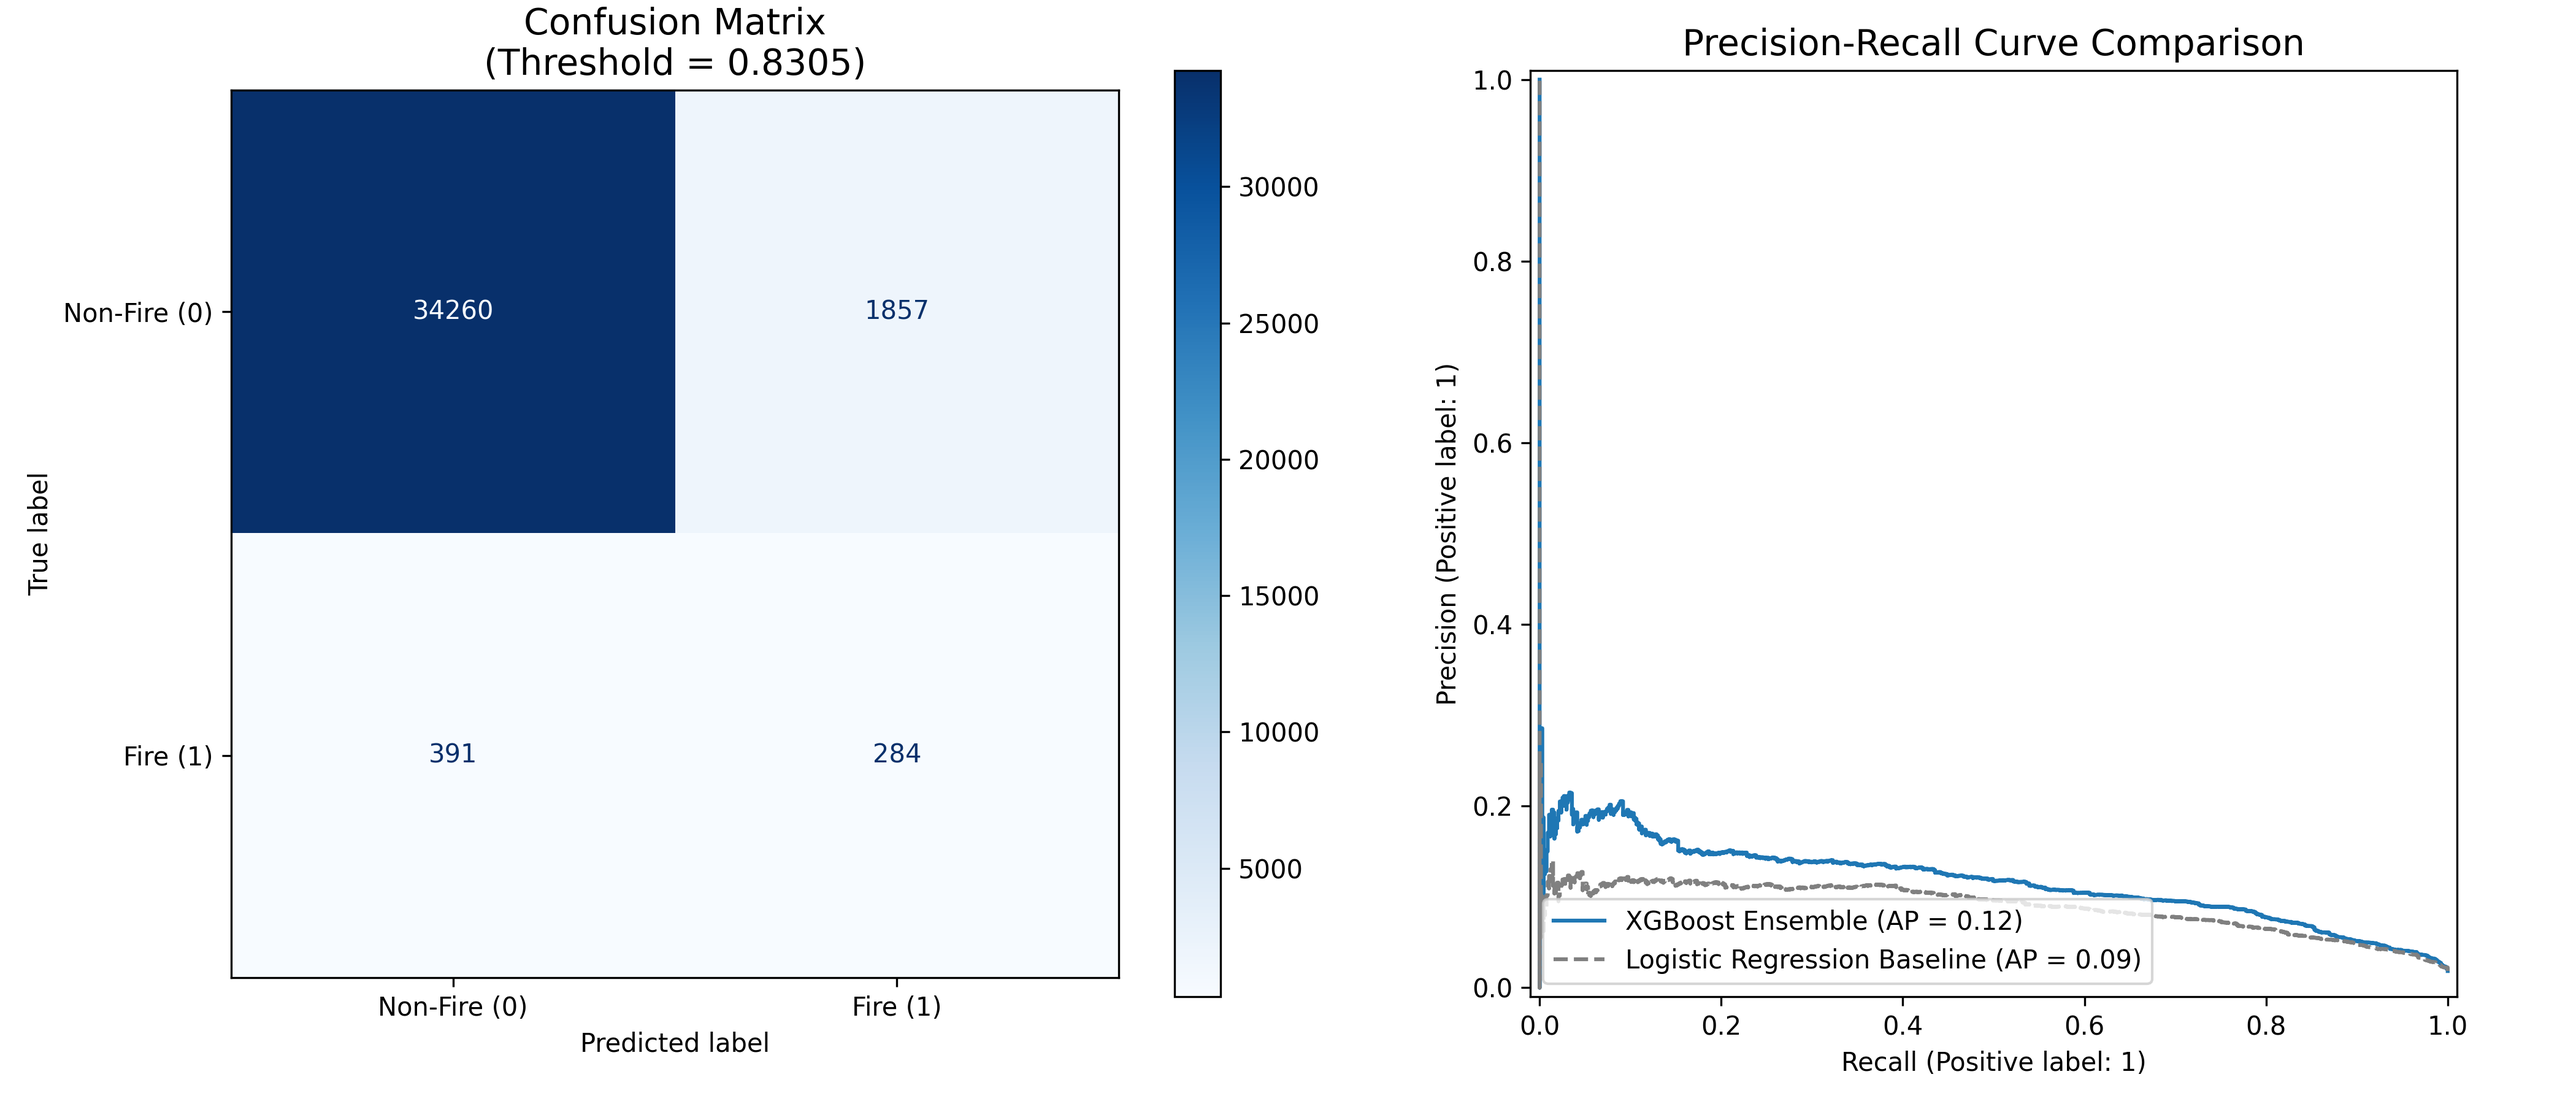
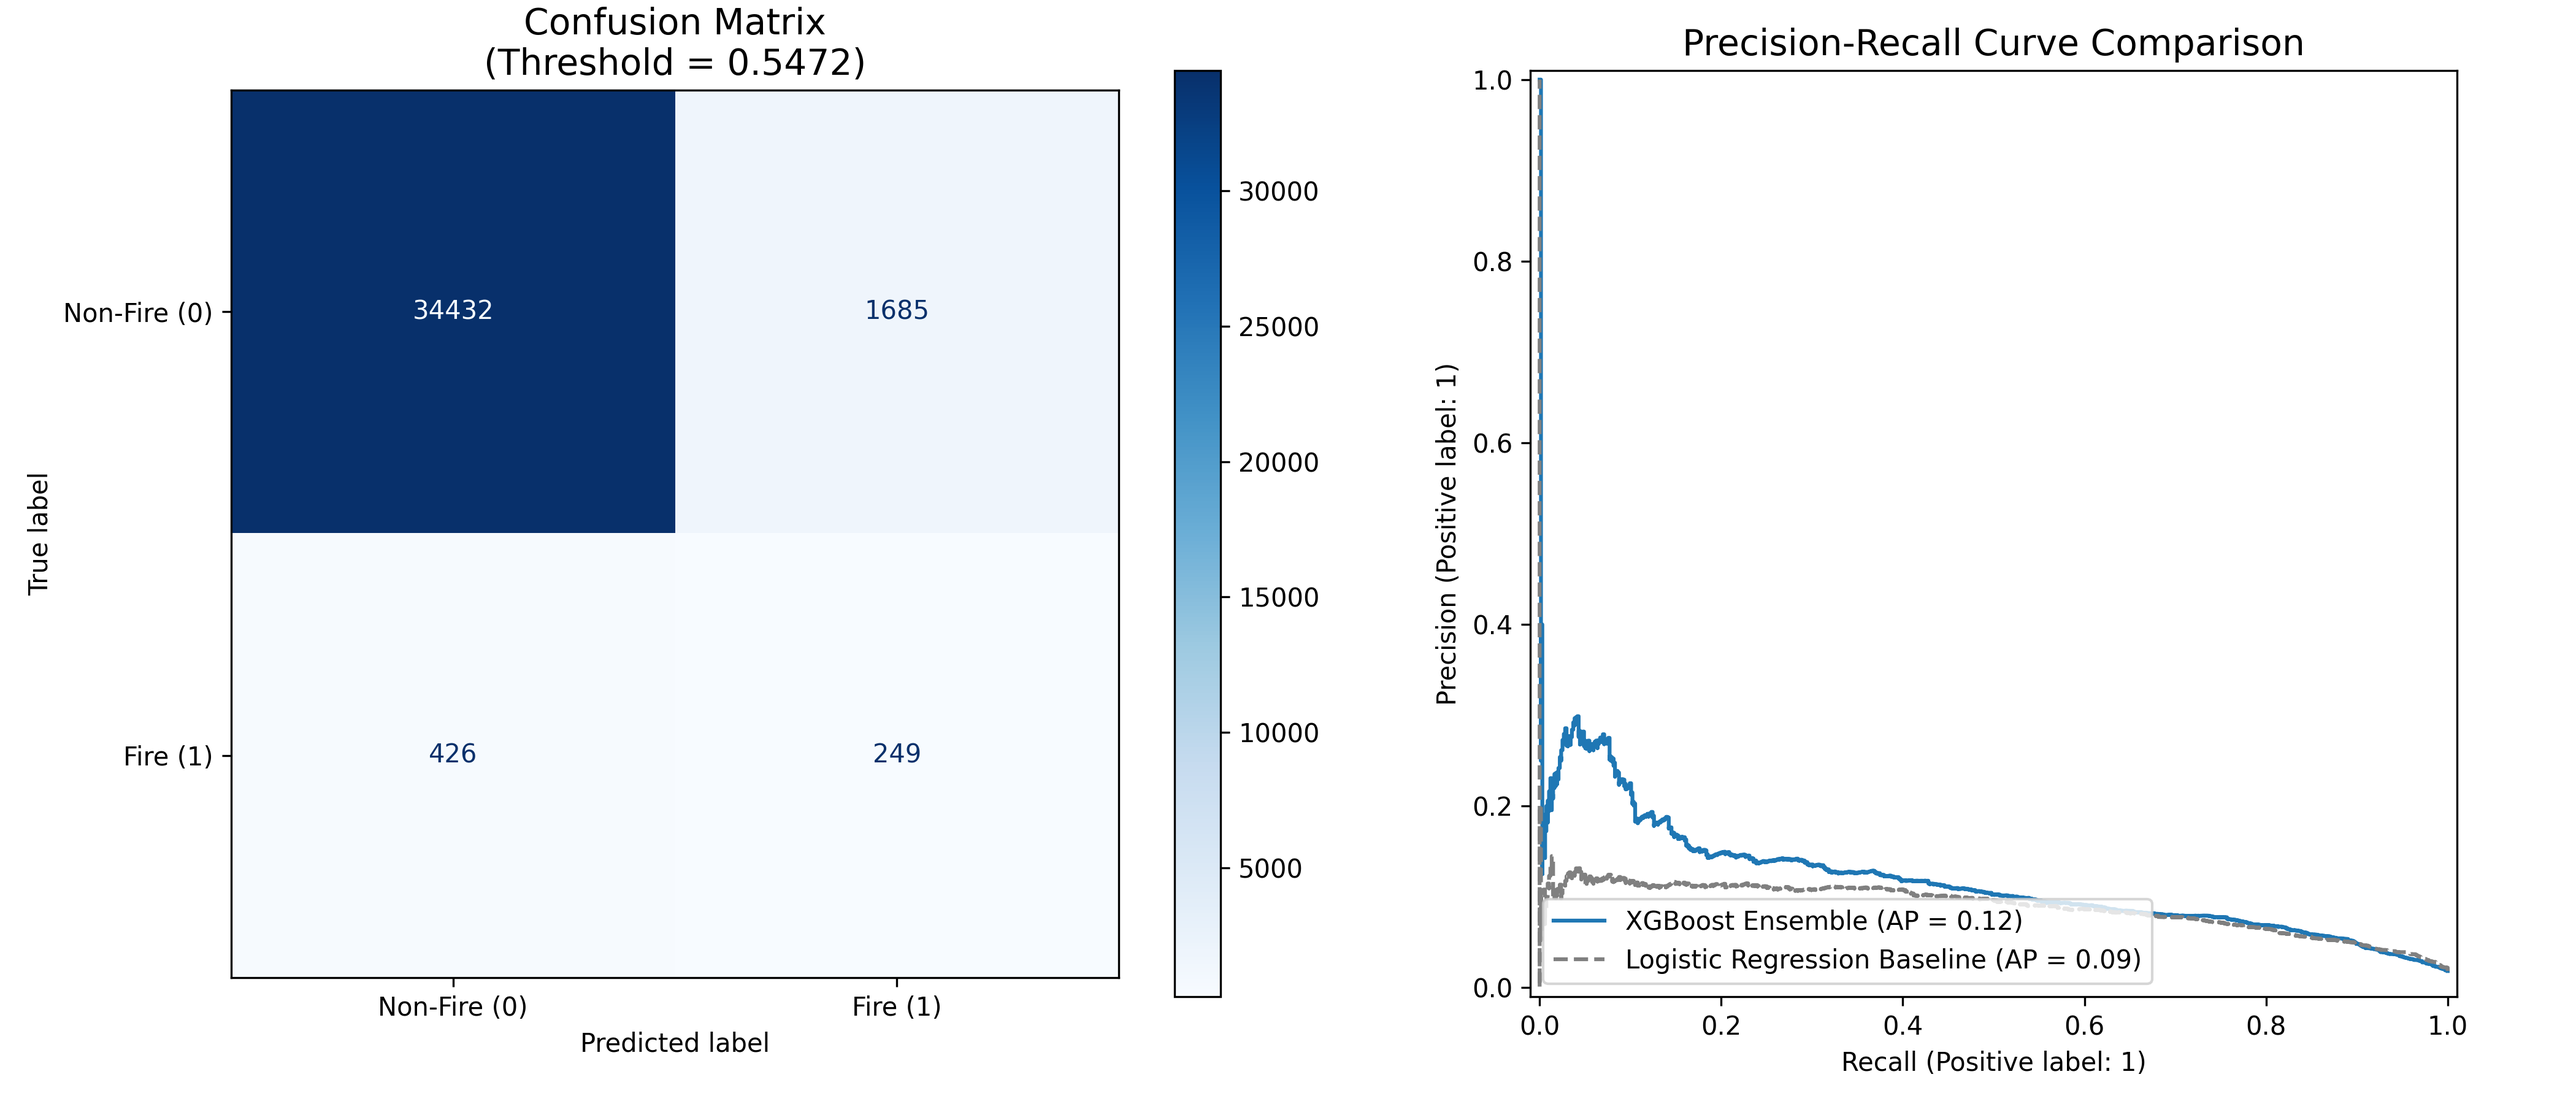
changes on pc

diff --git a/src/pipelines/wildfire_pipeline.py b/src/pipelines/wildfire_pipeline.py
@@ -138,14 +138,14 @@ class WildfirePipeline:
             best_params['random_state'] = 42
             best_params['verbosity'] = 0
             self.model = XGBClassifier(**best_params)
-            with open(Path(PROCESSED_DIR) / "best_xgboost_params.json") as f:
+            with open(Path(PROCESSED_DIR) / "best_xgboost_params.json", "w") as f:
                 json.dump(study.best_params, f)
         elif model_type == "lgbm":
             best_params['scale_pos_weight'] = scale_pos_weight
             best_params['random_state'] = 42
             best_params['verbosity'] = -1
             self.model = LGBMClassifier(**best_params)  
-            with open(Path(PROCESSED_DIR) / "best_lightgbm_params.json") as f:
+            with open(Path(PROCESSED_DIR) / "best_lightgbm_params.json", "w") as f:
                 json.dump(study.best_params, f)  
         
     def find_optimal_threshold(self, model, X_val, y_val):

diff --git a/src/process_manager.py b/src/process_manager.py
@@ -106,8 +106,8 @@ def wildfire_pipeline():
                 params=best_params,
                 feature_group=group,
                 downsample_ratio=10,
-                use_smote=True,
-                smote_ratio=0.2,
+                # use_smote=True,
+                # smote_ratio=0.2,
             )
         else:
             pipeline = WildfirePipeline(
